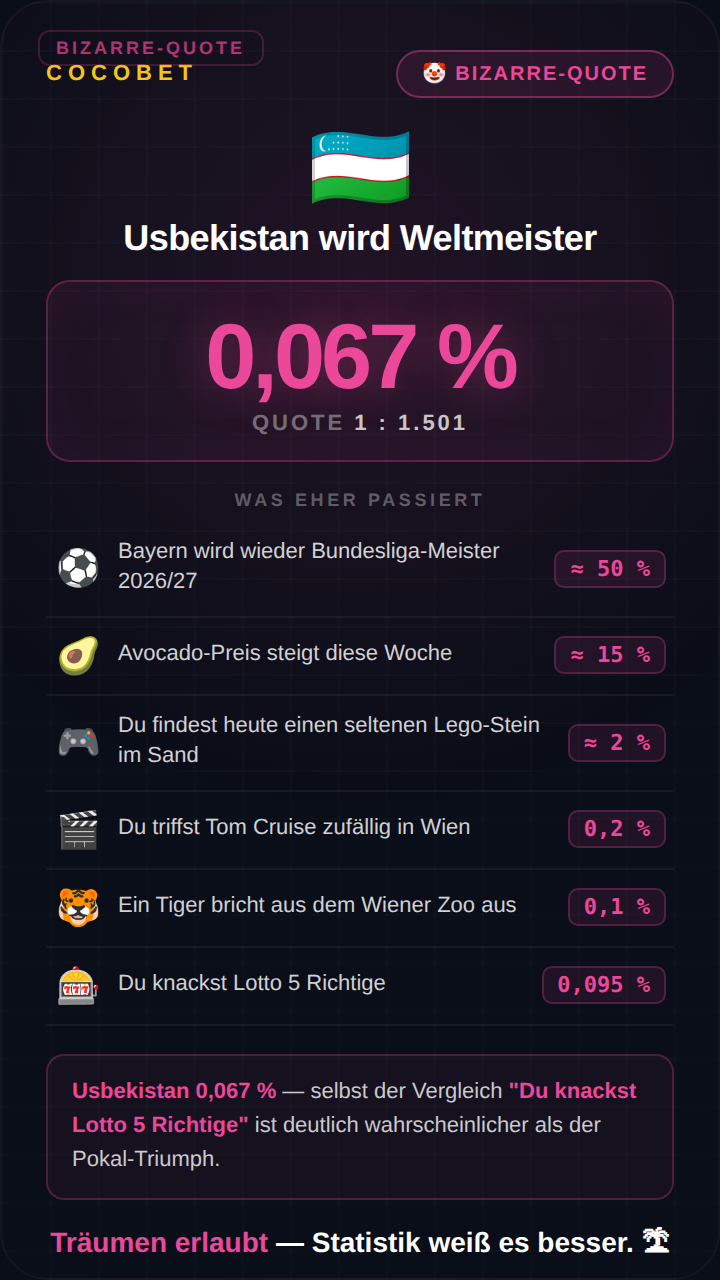
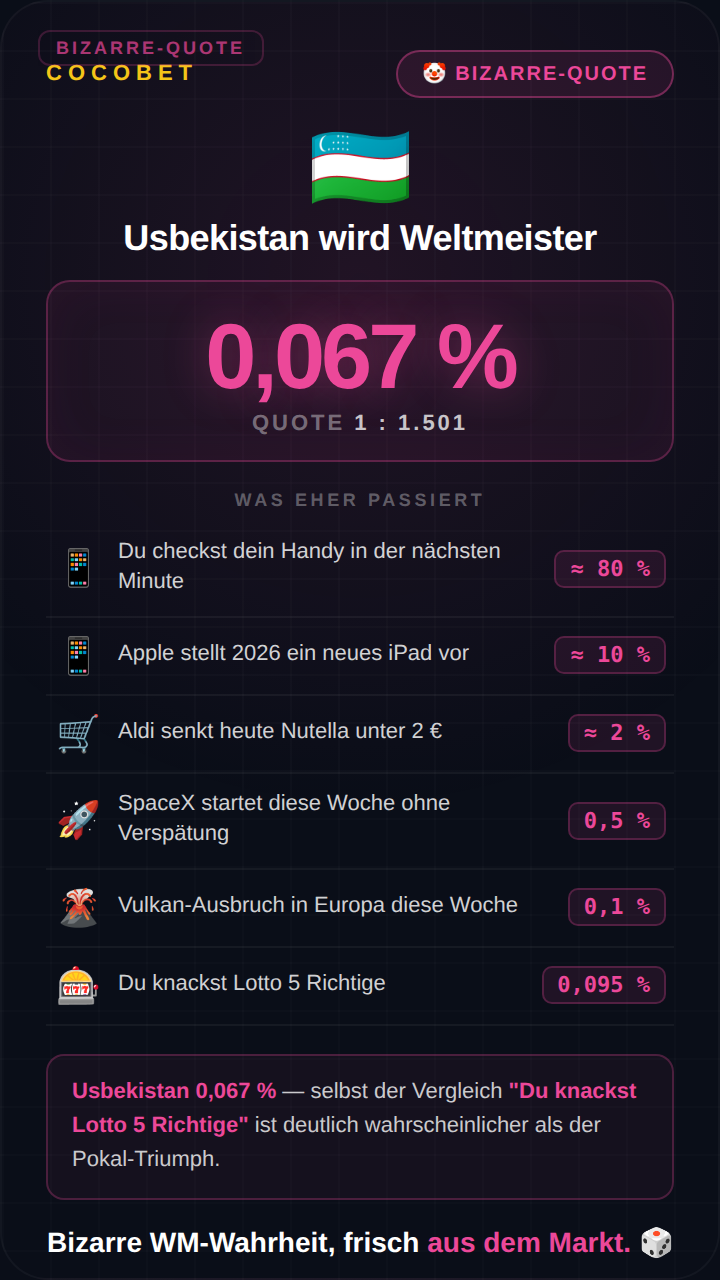
🎬 Daily TikTok-Cards 07.06.2026

diff --git a/daily-tiktok/2026-06-07_bizarre_info.html b/daily-tiktok/2026-06-07_bizarre_info.html
@@ -71,13 +71,13 @@ body { background:#0a0e18; display:flex; align-items:center; justify-content:cen
   </div>
 
   <div class="list-title">Was eher passiert</div>
-  <div class="comp-list"><div style="display:flex;align-items:center;gap:8px;padding:8px 4px;border-bottom:1px solid rgba(255,255,255,0.05);"><div style="font-size:18px;flex-shrink:0;width:24px;text-align:center;">⚽</div><div style="font-size:11px;color:rgba(255,255,255,.82);line-height:1.4;flex:1;">Bayern wird wieder Bundesliga-Meister 2026/27</div><div style="font-size:11px;font-weight:800;color:#ec4899;font-family:'SF Mono',Menlo,monospace;background:rgba(236,72,153,0.10);border:1px solid rgba(236,72,153,0.25);border-radius:5px;padding:2px 7px;flex-shrink:0;">≈ 50 %</div></div><div style="display:flex;align-items:center;gap:8px;padding:8px 4px;border-bottom:1px solid rgba(255,255,255,0.05);"><div style="font-size:18px;flex-shrink:0;width:24px;text-align:center;">🥑</div><div style="font-size:11px;color:rgba(255,255,255,.82);line-height:1.4;flex:1;">Avocado-Preis steigt diese Woche</div><div style="font-size:11px;font-weight:800;color:#ec4899;font-family:'SF Mono',Menlo,monospace;background:rgba(236,72,153,0.10);border:1px solid rgba(236,72,153,0.25);border-radius:5px;padding:2px 7px;flex-shrink:0;">≈ 15 %</div></div><div style="display:flex;align-items:center;gap:8px;padding:8px 4px;border-bottom:1px solid rgba(255,255,255,0.05);"><div style="font-size:18px;flex-shrink:0;width:24px;text-align:center;">🎮</div><div style="font-size:11px;color:rgba(255,255,255,.82);line-height:1.4;flex:1;">Du findest heute einen seltenen Lego-Stein im Sand</div><div style="font-size:11px;font-weight:800;color:#ec4899;font-family:'SF Mono',Menlo,monospace;background:rgba(236,72,153,0.10);border:1px solid rgba(236,72,153,0.25);border-radius:5px;padding:2px 7px;flex-shrink:0;">≈ 2 %</div></div><div style="display:flex;align-items:center;gap:8px;padding:8px 4px;border-bottom:1px solid rgba(255,255,255,0.05);"><div style="font-size:18px;flex-shrink:0;width:24px;text-align:center;">🎬</div><div style="font-size:11px;color:rgba(255,255,255,.82);line-height:1.4;flex:1;">Du triffst Tom Cruise zufällig in Wien</div><div style="font-size:11px;font-weight:800;color:#ec4899;font-family:'SF Mono',Menlo,monospace;background:rgba(236,72,153,0.10);border:1px solid rgba(236,72,153,0.25);border-radius:5px;padding:2px 7px;flex-shrink:0;">0,2 %</div></div><div style="display:flex;align-items:center;gap:8px;padding:8px 4px;border-bottom:1px solid rgba(255,255,255,0.05);"><div style="font-size:18px;flex-shrink:0;width:24px;text-align:center;">🐯</div><div style="font-size:11px;color:rgba(255,255,255,.82);line-height:1.4;flex:1;">Ein Tiger bricht aus dem Wiener Zoo aus</div><div style="font-size:11px;font-weight:800;color:#ec4899;font-family:'SF Mono',Menlo,monospace;background:rgba(236,72,153,0.10);border:1px solid rgba(236,72,153,0.25);border-radius:5px;padding:2px 7px;flex-shrink:0;">0,1 %</div></div><div style="display:flex;align-items:center;gap:8px;padding:8px 4px;border-bottom:1px solid rgba(255,255,255,0.05);"><div style="font-size:18px;flex-shrink:0;width:24px;text-align:center;">🎰</div><div style="font-size:11px;color:rgba(255,255,255,.82);line-height:1.4;flex:1;">Du knackst Lotto 5 Richtige</div><div style="font-size:11px;font-weight:800;color:#ec4899;font-family:'SF Mono',Menlo,monospace;background:rgba(236,72,153,0.10);border:1px solid rgba(236,72,153,0.25);border-radius:5px;padding:2px 7px;flex-shrink:0;">0,095 %</div></div></div>
+  <div class="comp-list"><div style="display:flex;align-items:center;gap:8px;padding:8px 4px;border-bottom:1px solid rgba(255,255,255,0.05);"><div style="font-size:18px;flex-shrink:0;width:24px;text-align:center;">📱</div><div style="font-size:11px;color:rgba(255,255,255,.82);line-height:1.4;flex:1;">Du checkst dein Handy in der nächsten Minute</div><div style="font-size:11px;font-weight:800;color:#ec4899;font-family:'SF Mono',Menlo,monospace;background:rgba(236,72,153,0.10);border:1px solid rgba(236,72,153,0.25);border-radius:5px;padding:2px 7px;flex-shrink:0;">≈ 80 %</div></div><div style="display:flex;align-items:center;gap:8px;padding:8px 4px;border-bottom:1px solid rgba(255,255,255,0.05);"><div style="font-size:18px;flex-shrink:0;width:24px;text-align:center;">📱</div><div style="font-size:11px;color:rgba(255,255,255,.82);line-height:1.4;flex:1;">Apple stellt 2026 ein neues iPad vor</div><div style="font-size:11px;font-weight:800;color:#ec4899;font-family:'SF Mono',Menlo,monospace;background:rgba(236,72,153,0.10);border:1px solid rgba(236,72,153,0.25);border-radius:5px;padding:2px 7px;flex-shrink:0;">≈ 10 %</div></div><div style="display:flex;align-items:center;gap:8px;padding:8px 4px;border-bottom:1px solid rgba(255,255,255,0.05);"><div style="font-size:18px;flex-shrink:0;width:24px;text-align:center;">🛒</div><div style="font-size:11px;color:rgba(255,255,255,.82);line-height:1.4;flex:1;">Aldi senkt heute Nutella unter 2 €</div><div style="font-size:11px;font-weight:800;color:#ec4899;font-family:'SF Mono',Menlo,monospace;background:rgba(236,72,153,0.10);border:1px solid rgba(236,72,153,0.25);border-radius:5px;padding:2px 7px;flex-shrink:0;">≈ 2 %</div></div><div style="display:flex;align-items:center;gap:8px;padding:8px 4px;border-bottom:1px solid rgba(255,255,255,0.05);"><div style="font-size:18px;flex-shrink:0;width:24px;text-align:center;">🚀</div><div style="font-size:11px;color:rgba(255,255,255,.82);line-height:1.4;flex:1;">SpaceX startet diese Woche ohne Verspätung</div><div style="font-size:11px;font-weight:800;color:#ec4899;font-family:'SF Mono',Menlo,monospace;background:rgba(236,72,153,0.10);border:1px solid rgba(236,72,153,0.25);border-radius:5px;padding:2px 7px;flex-shrink:0;">0,5 %</div></div><div style="display:flex;align-items:center;gap:8px;padding:8px 4px;border-bottom:1px solid rgba(255,255,255,0.05);"><div style="font-size:18px;flex-shrink:0;width:24px;text-align:center;">🌋</div><div style="font-size:11px;color:rgba(255,255,255,.82);line-height:1.4;flex:1;">Vulkan-Ausbruch in Europa diese Woche</div><div style="font-size:11px;font-weight:800;color:#ec4899;font-family:'SF Mono',Menlo,monospace;background:rgba(236,72,153,0.10);border:1px solid rgba(236,72,153,0.25);border-radius:5px;padding:2px 7px;flex-shrink:0;">0,1 %</div></div><div style="display:flex;align-items:center;gap:8px;padding:8px 4px;border-bottom:1px solid rgba(255,255,255,0.05);"><div style="font-size:18px;flex-shrink:0;width:24px;text-align:center;">🎰</div><div style="font-size:11px;color:rgba(255,255,255,.82);line-height:1.4;flex:1;">Du knackst Lotto 5 Richtige</div><div style="font-size:11px;font-weight:800;color:#ec4899;font-family:'SF Mono',Menlo,monospace;background:rgba(236,72,153,0.10);border:1px solid rgba(236,72,153,0.25);border-radius:5px;padding:2px 7px;flex-shrink:0;">0,095 %</div></div></div>
 
   <div class="closing-box">
     <div class="closing-text"><strong>Usbekistan 0,067 %</strong> — selbst der Vergleich <strong>"Du knackst Lotto 5 Richtige"</strong> ist deutlich wahrscheinlicher als der Pokal-Triumph.</div>
   </div>
 
-  <div class="quote"><span class="acc">Träumen erlaubt</span> — Statistik weiß es besser. 🏝</div>
+  <div class="quote">Bizarre WM-Wahrheit, frisch <span class="acc">aus dem Markt.</span> 🎲</div>
 
   <div class="footer">
     <div class="ft">Quote: Polymarket Outrights · 02.06.26</div>
